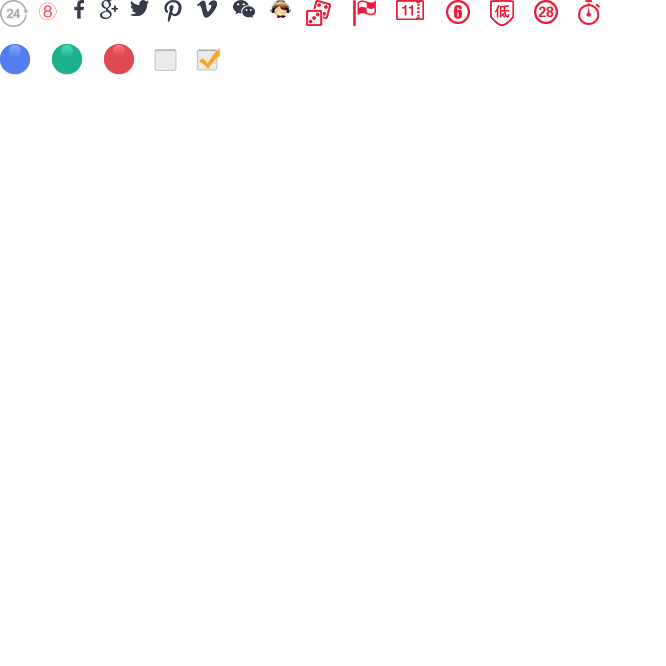
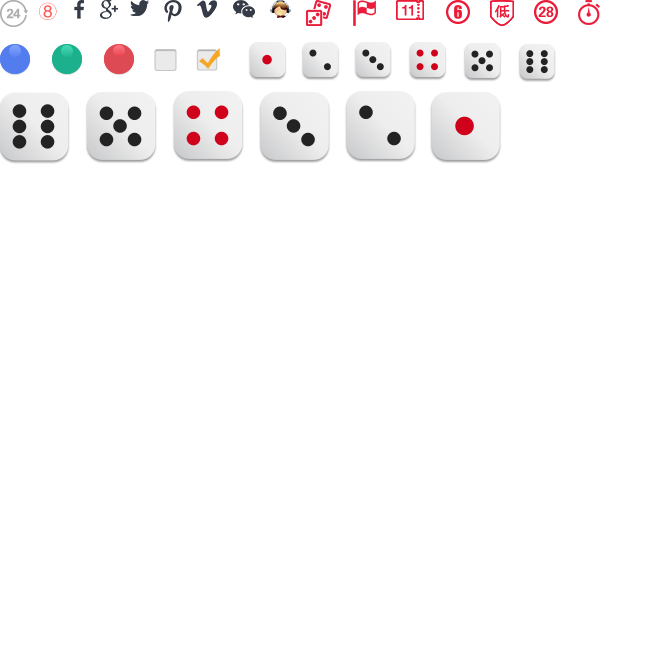
‘更新快3’

diff --git a/src/lib/config/method.js b/src/lib/config/method.js
@@ -1740,7 +1740,7 @@ export default {
             'desc': '选择1个或者多个结果，如果开奖号码的和值与所选结果符合即中奖',
             'help': '选择1个或者多个结果，如果开奖号码的和值与所选结果符合即中奖',
             'example': '投注方案：大<br>开奖号码：开奖号码和值为大，即中和值大小单双。',
-            'type': 'multi',
+            'type': 'k3',
             'btnStr': true,
             'layout': {
                 '和值': digitalDxdsTpl
@@ -1754,7 +1754,7 @@ export default {
             'desc': '是指对三个号码的和值进行投注,和值从3到18',
             'help': '是指对三个号码的和值进行投注,和值从3到18,开奖三个号码的和值等于购买的号码则中奖',
             'example': '购买号码:5<br>开奖号码:113, 即中奖.',
-            'type': 'multi',
+            'type': 'k3',
             'layout': {
                 '和值号': [3, 4, 5, 6, 7, 8, 9, 10, 11, 12, 13, 14, 15, 16, 17, 18 ]
             },
@@ -1767,7 +1767,7 @@ export default {
             'desc': '是指对三个各不相同的号码进行投注',
             'help': '是指对三个各不相同的号码进行投注,开奖号三个号码完全不同,并且在购买号码中则中奖',
             'example': '购买号码:123<br>开奖号码:123',
-            'type': 'multi',
+            'type': 'k3',
             'layout': {
                 '号码': [
                     '123','124','125','126','134',
@@ -1785,7 +1785,7 @@ export default {
             'desc': '是指从所有相同的三个号码(111、222、…、666)中任意选择一组号码进行投注',
             'help': '是指从所有相同的三个号码(111、222、…、666)中任意选择一组号码进行投注,开奖号码与购买号完全相同则中奖',
             'example': '购买号码:111<br>开奖号码:111',
-            'type': 'multi',
+            'type': 'k3',
             'lengthen': true,
             'layout': {
                 '号码': [
@@ -1806,7 +1806,7 @@ export default {
             'desc': '是指从所有相连的三个号码(123、234、345、456)中任意选择一组号码进行投注',
             'help': '是指从所有相连的三个号码(123、234、345、456)中任意选择一组号码进行投注,开奖号码与购买号完全相同则中奖',
             'example': '购买号码:123<br>开奖号码:123',
-            'type': 'multi',
+            'type': 'k3',
             'lengthen': true,
             'layout': {
                 '号码': [
@@ -1825,7 +1825,7 @@ export default {
             'desc': '是指对三个号码中两个指定的不同号码和一个任意相同号码进行投注.',
             'help': '是指对三个号码中两个指定的不同号码和一个任意相同号码进行投注,开奖号码中有两个号码不同,第三个号与两个号中任意一个相同,顺序不限.',
             'example': '购买号码:12<br>开奖号码:112/122即为中奖.',
-            'type': 'multi',
+            'type': 'k3',
             'btnStr': true,
             'lengthen': true,
             'layout': {
@@ -1844,17 +1844,18 @@ export default {
             'desc': '是指对三个号码中两个指定的相同号码和一个任意号码进行投注',
             'help': '是指对三个号码中两个指定的相同号码和一个任意号码进行投注,开奖号码中有两个号码相同,与购买号码一样,顺序不限',
             'example': '购买号码:112<br>开奖号码:112',
-            'type': 'multi',
+            'type': 'k3',
             'btnStr': true,
             'lengthen': true,
             'layout': {
                 '号码': [
                     '112','113','114','115','116',
-                    '221','223','224','225','226',
-                    '331','332','334','335','336',
-                    '441','442','443','445','446',
-                    '551','552','553','554','556',
-                    '661','662','663','664','665',
+                    '122','223','224','225','226',
+                    '133','233','334','335','336',
+                    '144','244','344','445','446',
+                    '155','255','355','455','556',
+                    '166','266','366','466','566',
+                    '11','22','33','44','55','66'
                 ]
             },
             'buttons': []
@@ -1866,7 +1867,7 @@ export default {
             'desc': '选中一个或多个骰号,如果开奖号码包含该号则中奖.',
             'help': '选中一个或多个骰号,如果开奖号码包含该号则中奖.',
             'example': '购买号码:1<br>开奖号码:123',
-            'type': 'multi',
+            'type': 'k3',
             'layout': {
                 '号码': [ 6,5,4,3,2,1 ]
             },

diff --git a/src/views/game/GameSelect.vue b/src/views/game/GameSelect.vue
@@ -14,8 +14,14 @@
                 </el-tooltip>
             </div>
         </div>
+    
+        
         <div class="main-ball-box ball" v-if="currentMethod.type === 'multi'">
-            <div class="main-ball-list"   v-for="(_number, _tabName, yIndex) in currentMethod.layout" :key="yIndex">
+            <div
+                 class="main-ball-list"
+                 v-for="(_number, _tabName, yIndex) in currentMethod.layout"
+                 :key="yIndex"
+            >
                 <div class="ball-list-name">{{_tabName}}</div>
                 <ul class="main-ball-content">
                     <li class="main-ball-content-li" v-for="(_code, xIndex) in _number" :key="xIndex" :class="{'ball-on': chooseNumber[yIndex][xIndex]}"  @click="selectCode(yIndex, xIndex)">
@@ -29,7 +35,61 @@
                 </ul>
             </div>
         </div>
+        
+        
+<!--快三-->
+        <section v-else-if="currentMethod.type === 'k3'"
+                 class="ball-k3"
+                 v-for="(_number, _tabName, yIndex) in currentMethod.layout"
+                 :key="yIndex"
+        >
+<!-- 三不同号 三同号 三连号-->
+            <ul class="k3-dxds-lists k3-sbth-lists"
+                v-if="
+                currentMethod.method !== 'KSHZDXDS' &&
+                currentMethod.method !== 'KSHZ'"
+                :class="{
+                'k3-sth-lists': currentMethod.method === 'STH' || currentMethod.method === 'ETH',
+                'k3-ebth-lists': currentMethod.method === 'EBTH',
+                'k3-dtys-lists': currentMethod.method === 'DTYS'
+                }"
+            >
+                <li class="k3-dxds-list"
+                    v-for="(_code, xIndex) in _number"
+                    :key="xIndex"
+                    @click="selectCode(yIndex, xIndex)"
+                    :class="{'active': chooseNumber[yIndex][xIndex]}"
+                >
+                    <a href="javascript:;"
+                       class="k3-sbth-dxds-lk"
+                       :class="'k3-sbth-' + _code_sub"
+                       :x="xIndex"
+                       :y="yIndex"
+                       v-for="(_code_sub, index) in String(_code).split('')" :key="index"
+                    ></a>
+                </li>
+            </ul>
+    
+            
+<!-- 合值 大小单双-->
+            <ul class="k3-dxds-lists" v-else>
+                <li class="k3-dxds-list" v-for="(_code, xIndex) in _number" :key="xIndex" @click="selectCode(yIndex, xIndex)">
+                    <a href="javascript:;"
+                       class="k3-dxds-lk"
+                       :class="{'active': chooseNumber[yIndex][xIndex]}"
+                       :x="xIndex"
+                       :y="yIndex"
+                    >{{_code}}</a>
+                </li>
+            </ul>
+        </section>
+        
+        
+<!--六合彩-->
         <Lhc v-else-if="currentMethod.type === 'lhc'"></Lhc>
+        
+        
+<!--直选-->
         <div class="main-ball-box" v-else>
             <div class="main-single-entry">
                 <div class="main-balls-import">
@@ -44,6 +104,8 @@
                 </div>
             </div>
         </div>
+        
+        
         <div class="bet-statistics w100" v-if="currentMethod.type !== 'lhc'">
             <div class="main-column-1 fl">
                 <div class="bet-choose-total">
@@ -151,6 +213,7 @@ export default {
     watch: {
         // 切换玩法时
         'bet.methodsTab' () {
+            console.log(this.currentMethod)
             this.currentOrder.currentCost = 0
             this.currentOrder.currentCount = 0
             this.currentOrder.currentTimes = 1
@@ -319,7 +382,7 @@ export default {
 
         // 计算注数
         calculate() {
-            if (this.currentMethod.type === 'multi') {
+            if (this.currentMethod.type === 'multi' || this.currentMethod.type === 'k3') {
                 const method = this.currentMethod
                 let _cnt, _count = 0, _pcnt, item, k, ref, result, inputcodes, positionDesc
                 inputcodes      = ''

diff --git a/src/assets/css/game.css b/src/assets/css/game.css
@@ -1500,3 +1500,130 @@ body {
 	background: #FF5656;
 	color: #ffffff;
 }
+
+/*快三*/
+.ball-k3{
+	background:#fff;
+}
+.k3-dxds-lists{
+	padding: 30px 0 50px;
+	text-align:center;
+}
+.k3-dxds-list{
+	display: inline-block;
+	vertical-align: middle;
+}
+.k3-dxds-lk{
+	display:block;
+	padding: 7px 10px 7px 12px;
+	margin: 5px 18px;
+	width: 45px;
+	height: 45px;
+	background: #F0F0F0 \0;
+	background-image: linear-gradient(-226deg, #F2F2F2 0%, #EEEEEE 46%, #C7C8CA 100%);
+	box-shadow: 0 3px 3px 0 rgba(0, 0, 0, 0.38);
+	border-radius: 15px;
+	line-height: 45px;
+	font-size: 35px;
+	color: #444;
+}
+.k3-dxds-lk:hover{
+	color: #D53446;
+}
+.k3-dxds-lk.active{
+	background: #F5515F \0;
+	background-image: linear-gradient(-225deg, #F5515F 0%, #9F041B 100%);
+	color: #FFF;
+	animation: k3Scale .3s;
+}
+
+/*三不同号*/
+.k3-sbth-lists{
+
+}
+.k3-sbth-lists .k3-dxds-list {
+	padding: 7px 10px 3px;
+	margin: 1px 5px 5px;
+	width: auto;
+	border-radius: 5px;
+}
+.k3-sbth-dxds-lk{
+	display:inline-block;
+	vertical-align:middle;
+	width:41px;
+	height:41px;
+	background:url(../../assets/images/hj.png) no-repeat -248px -42px;
+}
+.k3-sbth-lists .k3-dxds-list.active{
+	background: #F60;
+	animation: k3Scale .3s;
+}
+.k3-sbth-lists .k3-sbth-1{
+	background-position:-248px -42px;
+}
+.k3-sbth-lists .k3-sbth-2{
+	background-position:-301px -42px;
+}
+.k3-sbth-lists .k3-sbth-3{
+	background-position:-353px -42px;
+}
+.k3-sbth-lists .k3-sbth-4{
+	background-position:-408px -42px;
+}
+.k3-sbth-lists .k3-sbth-5{
+	background-position:-463px -42px;
+}
+.k3-sbth-lists .k3-sbth-6{
+	background-position:-517px -42px;
+}
+
+/*三同号*/
+.k3-sth-lists{
+	width:100%;
+}
+.k3-sth-lists .k3-dxds-list{
+	margin: 1px 2px 5px;
+}
+
+/*二不同号*/
+.k3-ebth-lists{
+	margin: 0 auto;
+	width: 600px;
+}
+
+/*单挑一*/
+.k3-dtys-lists .k3-sbth-dxds-lk{
+	width:73px;
+	height:73px;
+	background:url(../../assets/images/hj.png) no-repeat -428px -92px;
+}
+
+.k3-dtys-lists .k3-sbth-1{
+	background-position:-428px -92px;
+}
+.k3-dtys-lists .k3-sbth-2{
+	background-position:-344px -92px;
+}
+
+.k3-dtys-lists .k3-sbth-3{
+	background-position:-258px -92px;
+}
+
+.k3-dtys-lists .k3-sbth-4{
+	background-position:-172px -92px;
+}
+
+.k3-dtys-lists .k3-sbth-5{
+	background-position:-85px -92px;
+}
+
+.k3-dtys-lists .k3-sbth-6{
+	background-position:0 -92px;
+}
+
+
+@keyframes k3Scale {
+	0% { transform: scale(1)}
+	50% { transform: scale(1.2)}
+	100% { transform: scale(1)}
+}

diff --git a/src/views/game/GameMethod.vue b/src/views/game/GameMethod.vue
@@ -11,12 +11,14 @@
 		</div>
 		<div  class="bet-type-group" v-if="selectedGroup">
 			<div class="bet-type-group-list"  v-for="(row, _rowIndex) in allMethods[selectedGroupIndex]['rows']" :key="_rowIndex">
-				<div class="group-name">{{row.name}}</div>
-				<ul>
-					<li class="bet-type-group-list-li" v-for="(method, mkey) in row.methods" :key="mkey" v-bind:class="{'on':method.method_id === selectedMethodId}" @click="selectMethod(method.method_id)">
-						{{method.method_name}}
-					</li>
-				</ul>
+				<template v-if="row.methods.length > 1">
+					<div class="group-name">{{row.name}}</div>
+					<ul>
+						<li class="bet-type-group-list-li" v-for="(method, mkey) in row.methods" :key="mkey" v-bind:class="{'on':method.method_id === selectedMethodId}" @click="selectMethod(method.method_id)">
+							{{method.method_name}}
+						</li>
+					</ul>
+				</template>
 			</div>
 		</div>
 	</section>

diff --git a/src/components/game/lhc.vue b/src/components/game/lhc.vue
@@ -526,9 +526,13 @@ export default {
                 this.$set(this.newCodes[j], 'flag', false)
                 this.$set(this.newCodes[j], 'money', 0)
             }
+            
+            
             for (let i = 0; i < this.plays.length; i++) {
                 this.$set(this.plays[i], 'flag', false)
             }
+            
+            
             if (this.currentMethod.method === 'SX') {
                 for (let i = 0; i < this.playsFive.length; i++) {
                     this.$set(this.playsFive[i], 'flag', false)
@@ -813,7 +817,7 @@ export default {
                item.flag = !item.flag
            }
         },
-        //分颜色 选择号码
+        //特马 正特 颜色 选择号码
 				selectNumberSub (item) {
 				    let [
                 temp = []
